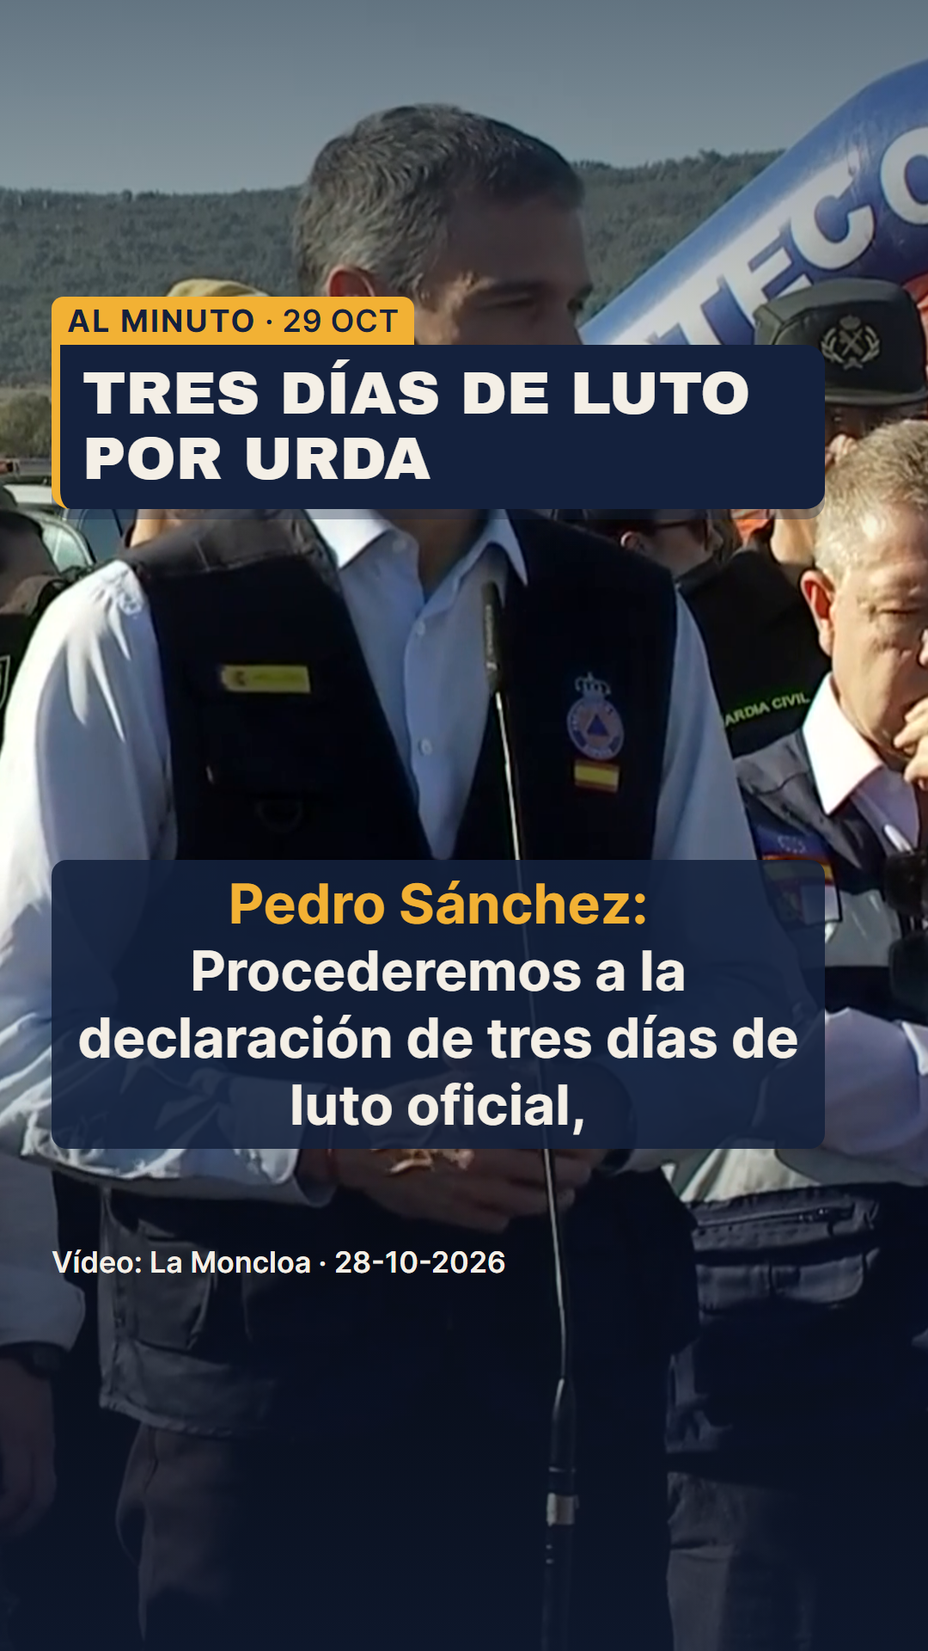
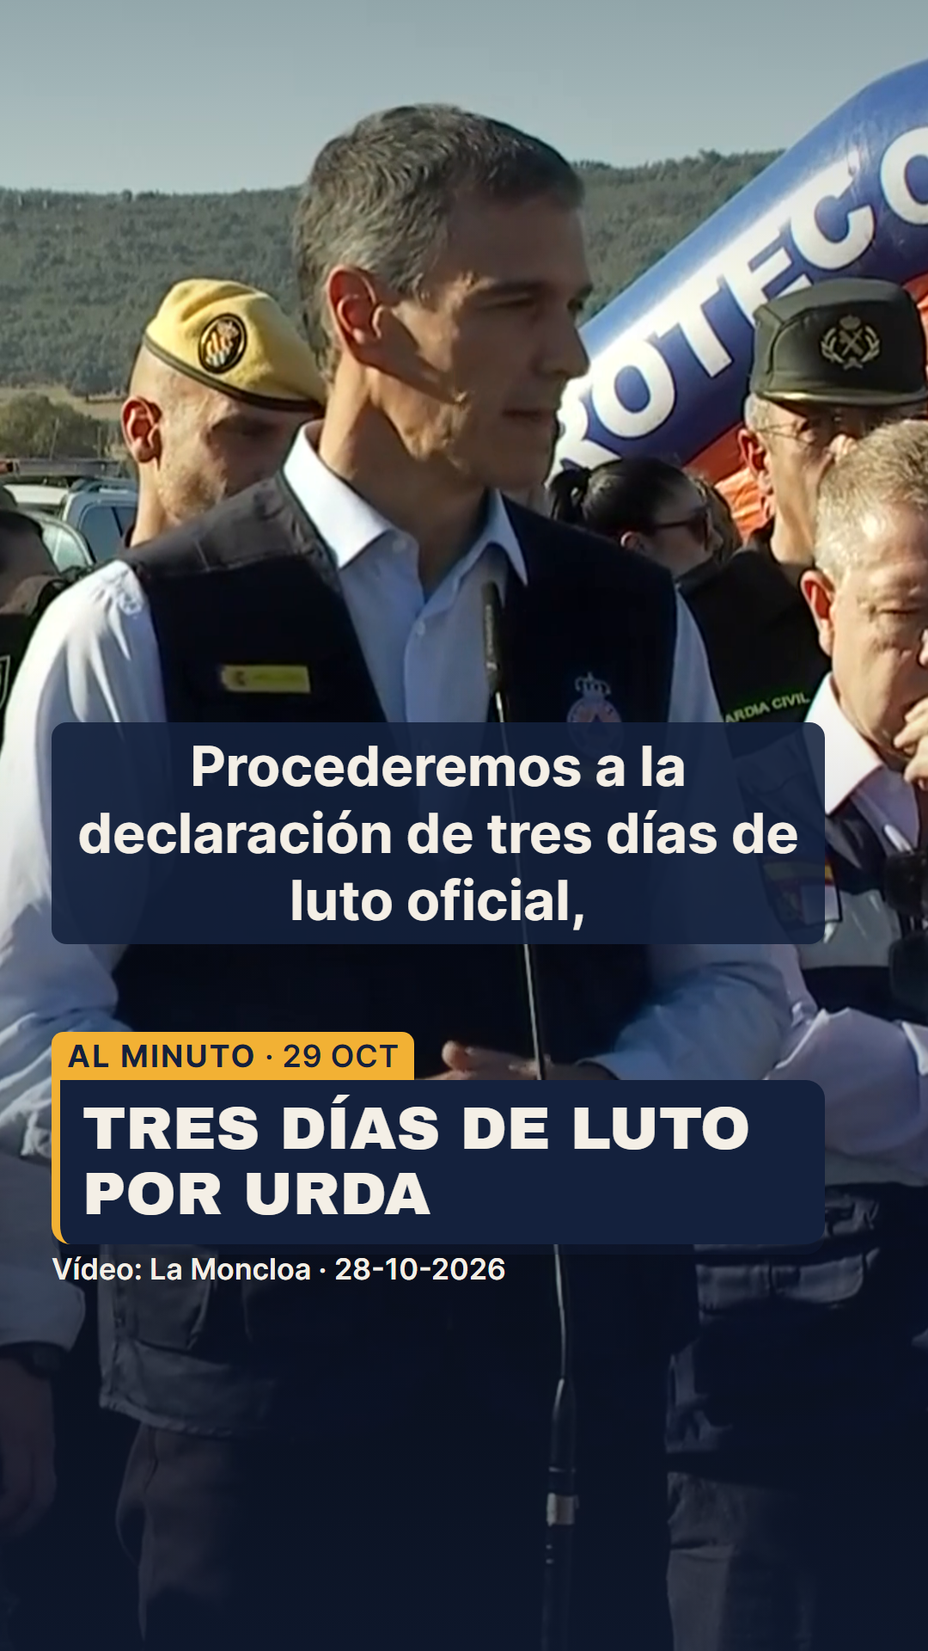
Al minuto: caja de titular abajo, citas sin nombre y sin rótulo del dato; 029 v3 aprobada

diff --git a/videos/remotion/src/componentes/AlMinuto.tsx b/videos/remotion/src/componentes/AlMinuto.tsx
@@ -4,6 +4,9 @@ import {C, F, SEGURA, SUBS} from '../tema';
 import {useEntrada, useSalida} from './util';
 import {Notas} from './Notas';
 
+/** Desplazamiento de los subtítulos (citas y voz) en Al minuto: suben sobre el pecho para dejar abajo la caja de titular. Úsalo también como subDy en escenas.json. */
+export const SUBS_DY_AM = -310;
+
 /**
  * Formato AL MINUTO (2026-10-28; reglas en estilo/guia-estilo.md → "Formato Al minuto").
  * El clip real a pantalla completa manda; encima, la caja de titular fija, los subtítulos literales del clip y "El dato que falta".
@@ -15,8 +18,8 @@ import {Notas} from './Notas';
  * Velo tinta degradado arriba y abajo para leer la caja y los subtítulos. `credito` ("Vídeo: La Moncloa") siempre visible abajo. */
 export const Clip: React.FC<{
   src: string; desde?: number; volumen?: number; bajarEn?: [number, number][]; volumenBajo?: number; foco?: string;
-  zoom?: [number, number]; dur?: number; en?: number; credito?: string; velo?: number; fundidoFin?: number;
-}> = ({src, desde = 0, volumen = 1, bajarEn = [], volumenBajo = 0.15, foco = '50% 50%', zoom = [1, 1], dur = 10, en = 0, credito, velo = 0.55, fundidoFin}) => {
+  zoom?: [number, number]; dur?: number; en?: number; credito?: string; creditoY?: number; velo?: number; fundidoFin?: number;
+}> = ({src, desde = 0, volumen = 1, bajarEn = [], volumenBajo = 0.15, foco = '50% 50%', zoom = [1, 1], dur = 10, en = 0, credito, creditoY = 1455, velo = 0.55, fundidoFin}) => {
   const frame = useCurrentFrame();
   const {fps} = useVideoConfig();
   const k = interpolate(frame, [en * fps, (en + dur) * fps], [0, 1], {extrapolateLeft: 'clamp', extrapolateRight: 'clamp'});
@@ -37,15 +40,15 @@ export const Clip: React.FC<{
       <div style={{position: 'absolute', inset: 0, overflow: 'hidden', background: C.tinta}}>
         <OffthreadVideo src={staticFile(`clips/${src}`)} startFrom={Math.round(desde * fps)} volume={vol}
           style={{width: '100%', height: '100%', objectFit: 'cover', objectPosition: foco, transform: `scale(${esc})`, transformOrigin: foco}} />
-        <div style={{position: 'absolute', inset: 0, background: `linear-gradient(180deg, rgba(20,33,61,${velo}) 0%, rgba(20,33,61,0) 34%, rgba(20,33,61,0) 52%, rgba(20,33,61,${velo + 0.15}) 100%)`}} />
+        <div style={{position: 'absolute', inset: 0, background: `linear-gradient(180deg, rgba(20,33,61,${velo * 0.5}) 0%, rgba(20,33,61,0) 20%, rgba(20,33,61,0) 40%, rgba(20,33,61,${velo + 0.15}) 100%)`}} />
       </div>
-      {credito ? <Notas lineas={[credito]} sobre="oscuro" tamano={34} /> : null}
+      {credito ? <Notas lineas={[credito]} sobre="oscuro" tamano={34} y={creditoY} /> : null}
     </>
   );
 };
 
-/** Caja de titular fija (todo el vídeo): etiqueta mostaza "AL MINUTO · fecha" y titular (máx. 8 palabras) en crema sobre tinta. */
-export const TitularAM: React.FC<{texto: string; fecha?: string; etiqueta?: string; y?: number; tamano?: number; en?: number}> = ({texto, fecha, etiqueta = 'AL MINUTO', y = 345, tamano = 70, en = 0}) => {
+/** Caja de titular fija (todo el vídeo), ABAJO para no tapar la cara (decisión 2026-10-29): etiqueta mostaza "AL MINUTO · fecha" y titular (máx. 8 palabras) en crema sobre tinta. */
+export const TitularAM: React.FC<{texto: string; fecha?: string; etiqueta?: string; y?: number; tamano?: number; en?: number}> = ({texto, fecha, etiqueta = 'AL MINUTO', y = 1200, tamano = 70, en = 0}) => {
   // Regla de la plantilla: caja 100 % opaca desde el fotograma 1, sin fundido ni movimiento de entrada
   return (
     <div style={{position: 'absolute', left: SEGURA.izq, top: y, width: SEGURA.ancho}}>
@@ -57,8 +60,8 @@ export const TitularAM: React.FC<{texto: string; fecha?: string; etiqueta?: stri
   );
 };
 
-/** Subtítulos literales del clip (lo que se oye), con quién habla en mostaza. Pastilla tinta en la banda de subtítulos. */
-export const Citas: React.FC<{lineas: {inicio: number; fin: number; texto: string; quien?: string}[]; y?: number; tamano?: number}> = ({lineas, y = SUBS.y, tamano = 64}) => {
+/** Subtítulos literales del clip (lo que se oye), SIN el nombre de quien habla (decisión 2026-10-29). Encima de la caja de titular. Pastilla tinta en la banda de subtítulos. */
+export const Citas: React.FC<{lineas: {inicio: number; fin: number; texto: string}[]; y?: number; tamano?: number}> = ({lineas, y = SUBS.y + SUBS_DY_AM, tamano = 64}) => {
   const frame = useCurrentFrame();
   const {fps} = useVideoConfig();
   const t = frame / fps;
@@ -67,7 +70,7 @@ export const Citas: React.FC<{lineas: {inicio: number; fin: number; texto: strin
   return (
     <div style={{position: 'absolute', left: SEGURA.izq, width: SEGURA.ancho, top: y, display: 'flex', justifyContent: 'center'}}>
       <div style={{fontFamily: F.texto, fontWeight: 700, fontSize: tamano, lineHeight: 1.22, color: C.crema, background: 'rgba(20,33,61,0.88)', padding: '12px 26px', borderRadius: 18, textAlign: 'center', maxWidth: SEGURA.ancho}}>
-        {l.quien ? <span style={{color: C.mostaza}}>{l.quien}: </span> : null}{l.texto}
+        {l.texto}
       </div>
     </div>
   );

diff --git a/estado/pipeline.md b/estado/pipeline.md
@@ -32,7 +32,7 @@ Lo mantiene el coordinador. Una fila por pieza.
 | 026 | choque-trenes-urda | 🔴 Actualidad | Estándar corto (≈ 73 s) | publicado | 1 | 0 | 2026-10-28 13:28 TikTok · 13:31 IG (PUBLICADO) | 2026-10-28: la persona usuaria pide "un vídeo de la última hora" para subir ya → buscador-temas buscando la noticia · La persona usuaria pide que se le pida el OK en cuanto esté lista para publicar al momento, sin el margen de 2 h · Buscador: choque por alcance AVE-Iryo en Urda (Toledo) el 28-10; cifra de muertos sin cerrar (10 según la portavoz de CLM, otros dan 39–46: posible mezcla con Adamuz) → guion encargado: solo cifra oficial atribuida y con hora, sin causa ni culpas → v1 (202 pal., ≈ 73 s; "al menos 30" según EFE/Junta CLM a las 10:25; los 46 de Cuatro sin fuente oficial localizada) → a revisor-guion (vía rápida, cifra oficial) → v1 CAMBIOS (literales: al menos 30, Junta CLM 10:30, cifras más altas sin confirmar (46 no oficial: Iryo/Protección Civil según The Objective; la portavoz no lo confirma a las 11:14); fuera juzgado y ASFA/ERTMS; CIAF regla general) → guionista aplicándolos (v2) → v2 verificada por el coordinador (grep de literales) → aprobado → vídeo v1 encargado → render v1 (73,2 s, Urda.tsx, cifra editable en _generar-escenas.mjs; subida 7,6 MB) → a revisor-video → v1 APROBADO 9/10. Cifra recomprobada (30, Page: 24 AVE + 6 Iryo). Ficha en publicado/026. Pendiente del OK → guion v3 (puentes, 230 pal.) → sin clips de X válidos → render v2 (87,5 s, 6 fotos Commons, marcador 1-2-3) → v2 APROBADO 9/10. Cifra recomprobada a las 13:02 (30, Page). Pendiente del OK · OK de la persona usuaria ("súbelo") → publicador, publicar ya → PUBLICADO (TikTok 7701694536233389334) |
 | 027 | trenes-oscar-puente | 🔴 Actualidad | Estándar (≤ 88 s) | programado | 2 | 1 | 2026-10-28 21:00 (Meta Business Suite y TikTok Studio, OK de la persona usuaria) | 2026-10-28: petición de la persona usuaria (repaso de los trenes con Puente de ministro, desde el 21-11-2023) → guion encargado. Accidentes: cifras oficiales, sin culpas no establecidas · La persona usuaria pide que se le pida el OK en cuanto esté lista para publicar al momento, sin el margen de 2 h · Solo lo negativo (persona usuaria, 28-10); Urda solo en una línea con hechos confirmados → v1 (86 s, 236 pal.; Adamuz, Gelida, Rodalies, robo de cable, huelga de febrero; Urda en una línea; 6 VERIFICAR) → a revisor-guion (vigilar gancho con los muertos de Adamuz) · La persona usuaria la quiere HOY (28-10), pese al choque de Urda; pedir OK en cuanto esté aprobada → v1 CAMBIOS (gancho sin muertos junto al ministro; desenlaces: detenidos del cable, huelga desconvocada; Rodalies 2 días; cierre nuevo) → guionista v2 ≤ 88 s → v2 (241 pal., 87,6 s) verificada por el coordinador (grep) → aprobado → vídeo v1 encargado → render v1 (85,7 s, Tren.tsx; subida 6,0 MB) → a revisor-video → v1 APROBADO 9/10 (opcional: "SIN CERRAR" en lugar de "?"). Ficha en publicado/027. Pendiente del OK · 2026-10-28: la persona usuaria pide imágenes reales y más dinamismo con hilo de retención → guionista v3 → luego vídeo v2 → guion v3 (misma voz; contador HECHO 1–6) → render v2 (85,6 s, 9 fotos Commons, Moncloa con fecha) → v2 APROBADO 9/10. Pendiente del OK · OK de la persona usuaria ("027 a las 21:00") → publicador, 28-10 21:00 → PROGRAMADO y verificado. Miniatura de IG sin confirmar |
 | 028 | dos-cifras-de-paro | 📊 Datos y mitos | Flash (≈ 32 s) | guion-revision | 1 | 0 | sin hueco (era 2026-10-30 19:00) | Propuesta 3 de 2026-10-27 (EPA 3T: 2.591.200 frente a 2.379.505 registrados). 2026-10-29 (producción nocturna en la nube): guion encargado → v1 (109 pal.) → a revisor-guion → v1 CAMBIOS (texto de voz literal de 88 pal. en revisiones/guiones/028-dos-cifras-de-paro-v1.md; corregir "Idea en una frase" y tiempos a 165 pal/min). BLOQUEADA por verificación: el proxy de la nube bloquea ine.es, lamoncloa.gob.es, sepe.es, revista.seg-social.es, boe.es y commons.wikimedia.org; no se pudo leer literalmente la nota EPA3T26 (2.591.200; +95.900; −21.900) ni la definición de parado registrado. Siguiente paso: permitir esos dominios (o comprobar en Chrome), aplicar el literal y hacer una vuelta 2 solo de datos |
-| 029 | luto-oficial | 🔴 Actualidad · Al minuto (piloto) | Al minuto (28 s) | aprobado (piloto, sin programar) | 2 | 2 | — (no va a la cola salvo OK de la persona usuaria; luto vigente hasta 2026-10-31 24:00) | Declaración de Sánchez en Urda 2026-10-28 (clip La Moncloa) + RD 949/2026. Guion v2 APROBADO, vídeo v2 APROBADO 9/10. Render videos/renders/029-luto-oficial-v2.mp4 (clip y fuente .mp4 solo en local, no en git). Renumerada de 028 por choque con la producción nocturna. |
+| 029 | luto-oficial | 🔴 Actualidad · Al minuto (piloto) | Al minuto (28 s) | aprobado (piloto, sin programar) | 2 | 2 | — (no va a la cola salvo OK de la persona usuaria; luto vigente hasta 2026-10-31 24:00) | Declaración de Sánchez en Urda 2026-10-28 (clip La Moncloa) + RD 949/2026. Guion v2 APROBADO; vídeo v3 APROBADO 9/10 (cambios de la persona usuaria 29-10: sin rótulo de dato, caja abajo, citas sin nombre). Render videos/renders/029-luto-oficial-v3.mp4 (clip y fuente .mp4 solo en local, no en git). Renumerada de 028 por choque con la producción nocturna. |
 
 **Serie "8 años en cifras" (pedida el 2026-10-28):** cifras negativas del Gobierno de Sánchez desde 2018, de fuente oficial y con comparación honesta. Propuesta en temas/propuestas/2026-10-28-serie-8-anos.md (buscador). Elegir episodios con la persona usuaria.
 

diff --git a/estilo/guia-estilo.md b/estilo/guia-estilo.md
@@ -60,9 +60,9 @@ Elegida **a propósito lejos de los colores de los partidos españoles**: la cue
 
 ## Formato Al minuto (2026-10-28, aprobado por la persona usuaria)
 Actualidad del mismo día en **15–40 s** con la **imagen real del hecho** como protagonista. Inspirado en cuentas de clips de noticias, pero con dos diferencias que no se negocian: **sin clips de televisión** y **sin tono activista** (la línea editorial elige el tema y el dato, nunca adjetiva).
-- **Pantalla:** el clip a pantalla completa (velo tinta suave arriba y abajo para leer) · **caja de titular fija** arriba (etiqueta mostaza "AL MINUTO" + titular de máx. 8 palabras en crema sobre tinta, presente todo el vídeo) · **rótulo "El dato que falta"** en el último tercio: una cifra o hecho verificado que da contexto (con su fuente en 36 px) · crédito del clip siempre visible abajo ("Vídeo: La Moncloa", "Vídeo: @usuario").
-- **Audio:** el sonido original del clip. Si hablan, **subtítulos literales** de lo que se dice, atribuidos ("Sánchez:"), sin recortar el sentido de la frase. Voz de Rafalupi **como mucho una frase** (normalmente para presentar el dato que falta); mientras suena, el clip baja a ~15 %.
-- **Estructura:** 0–2 s titular + lo más fuerte del clip (gancho visual, nunca fuera de contexto) · 2–25 s el clip (uno o dos cortes) · últimos 8–10 s el dato que falta + cierre corto ("Síguenos para estar informado").
+- **Pantalla:** el clip a pantalla completa (velo tinta suave arriba y abajo para leer) · **caja de titular fija ABAJO** (y≈1200, para no tapar la cara; etiqueta mostaza "AL MINUTO" + titular de máx. 8 palabras en crema sobre tinta, presente todo el vídeo) · subtítulos encima de la caja, a la altura del pecho · crédito del clip siempre visible bajo la caja ("Vídeo: La Moncloa", "Vídeo: @usuario"). **Sin rótulo "El dato que falta"** (decisión de la persona usuaria del 2026-10-29: "no queda bien"); el contexto va en la voz y en el post.
+- **Audio:** el sonido original del clip. Si hablan, **subtítulos literales** de lo que se dice, **sin el nombre de quien habla** (solo el texto; quién es lo dicen el titular y el post; 2026-10-29), sin recortar el sentido de la frase. Voz de Rafalupi **como mucho una frase** (el dato de contexto, con sus subtítulos normales); mientras suena, el clip baja a ~15 %.
+- **Estructura:** 0–2 s titular + lo más fuerte del clip (gancho visual, nunca fuera de contexto) · 2–25 s el clip (uno o dos cortes) · últimos 5–8 s la frase de contexto en voz + cierre corto ("Síguenos para estar informado").
 - **Clips permitidos (por orden de preferencia):**
   1. **Institucionales** con reutilización permitida citando la fuente: La Moncloa (galería de vídeos), Congreso (Canal Parlamento / archivo audiovisual), Senado, Parlamento Europeo (Multimedia Centre), Comisión Europea (Audiovisual Service), Casa Real, Gobiernos autonómicos y ayuntamientos con aviso legal que lo permita. El guionista comprueba el aviso legal de cada fuente y lo anota.
   2. **Grabados por particulares en redes** (excepción de la persona usuaria del 2026-10-25): citando la cuenta (@) en pantalla y **pixelando las caras** de quien no sea cargo público. Citar no equivale a permiso: riesgo de retirada asumido por la persona usuaria.

diff --git a/.claude/agents/generador-video.md b/.claude/agents/generador-video.md
@@ -25,7 +25,7 @@ No leas informes ni carpetas de otras piezas salvo para copiar un patrón concre
 3. Renderiza.
 4. Autocomprobación antes de entregar: formato y duración (±5 s del objetivo), los 6 fotogramas de control y **la salida de `comprobar.mjs` en "COMPROBAR: OK"**. Cada aviso que quede, corrígelo o explícale al coordinador por qué no es un fallo (p. ej. un sello que rebasa 5 px solo al entrar); mira en un fotograma los de la franja de subtítulos. Portada con el titular legible en el recorte central 1080×1350.
 
-**Formato Al minuto:** `"plantilla": "alminuto"` en escenas.json y los componentes `clip` (vídeo a pantalla completa desde `clips/` de la pieza, con `desde`, `volumen` y `bajarEn` para la voz), `titularAM` (caja fija) , `citas` (subtítulos literales del clip) y `datoFalta`. Prepara el clip con `node videos/scripts/clip.mjs` (recorte de tramos, pixelado de caras con cajas, 1080×1920). Esqueleto: `videos/plantillas/alminuto.escenas.json`.
+**Formato Al minuto:** `"plantilla": "alminuto"` en escenas.json y los componentes `clip` (vídeo a pantalla completa desde `clips/` de la pieza, con `desde`, `volumen` y `bajarEn` para la voz), `titularAM` (caja fija) , `citas` (subtítulos literales del clip, sin nombre de quien habla). La caja va abajo y los subtítulos encima (`"subDy": -310` en escenas.json para los de la voz); no se usa `datoFalta` (2026-10-29). Prepara el clip con `node videos/scripts/clip.mjs` (recorte de tramos, pixelado de caras con cajas, 1080×1920). Esqueleto: `videos/plantillas/alminuto.escenas.json`.
 
 ## Reglas de estilo que no se negocian
 - **Zonas seguras** de Instagram: sin texto importante en los 250 px de arriba, en los 420 px de abajo ni en los 120 px del lateral derecho.

diff --git a/agentes/generador-video.md b/agentes/generador-video.md
@@ -25,7 +25,7 @@ No leas informes ni carpetas de otras piezas salvo para copiar un patrón concre
 3. Renderiza.
 4. Autocomprobación antes de entregar: formato y duración (±5 s del objetivo), los 6 fotogramas de control y **la salida de `comprobar.mjs` en "COMPROBAR: OK"**. Cada aviso que quede, corrígelo o explícale al coordinador por qué no es un fallo (p. ej. un sello que rebasa 5 px solo al entrar); mira en un fotograma los de la franja de subtítulos. Portada con el titular legible en el recorte central 1080×1350.
 
-**Formato Al minuto:** `"plantilla": "alminuto"` en escenas.json y los componentes `clip` (vídeo a pantalla completa desde `clips/` de la pieza, con `desde`, `volumen` y `bajarEn` para la voz), `titularAM` (caja fija) , `citas` (subtítulos literales del clip) y `datoFalta`. Prepara el clip con `node videos/scripts/clip.mjs` (recorte de tramos, pixelado de caras con cajas, 1080×1920). Esqueleto: `videos/plantillas/alminuto.escenas.json`.
+**Formato Al minuto:** `"plantilla": "alminuto"` en escenas.json y los componentes `clip` (vídeo a pantalla completa desde `clips/` de la pieza, con `desde`, `volumen` y `bajarEn` para la voz), `titularAM` (caja fija) , `citas` (subtítulos literales del clip, sin nombre de quien habla). La caja va abajo y los subtítulos encima (`"subDy": -310` en escenas.json para los de la voz); no se usa `datoFalta` (2026-10-29). Prepara el clip con `node videos/scripts/clip.mjs` (recorte de tramos, pixelado de caras con cajas, 1080×1920). Esqueleto: `videos/plantillas/alminuto.escenas.json`.
 
 ## Reglas de estilo que no se negocian
 - **Zonas seguras** de Instagram: sin texto importante en los 250 px de arriba, en los 420 px de abajo ni en los 120 px del lateral derecho.

diff --git a/guiones/_plantilla-al-minuto.md b/guiones/_plantilla-al-minuto.md
@@ -4,7 +4,7 @@
 |---|---|
 | Pilar | 🔴 Actualidad |
 | Formato | Al minuto (15–40 s), plantilla `alminuto`. Reglas: `estilo/guia-estilo.md` → "Formato Al minuto" |
-| Duración objetivo | NN s (clip NN s + dato que falta NN s) |
+| Duración objetivo | NN s (clip NN s + frase de contexto NN s) |
 | Vigencia | Publicar el AAAA-MM-DD antes de las HH:MM (si pasa más tiempo, revisar que el hecho no haya cambiado) |
 | Portada | Titular de la caja (máx. 6 palabras) sobre el fotograma del segundo N del clip |
 | Versión | v1 |
@@ -29,14 +29,14 @@ TEXTO DEL TITULAR
 |---|---|---|---|---|
 | 1 | 0–N s | Corte 1 | Original | Caja de titular |
 | 2 | N–N s | Corte 2 | Original | Subtítulos literales |
-| 3 | N–N s | Corte 2 (sigue, más bajo) | Voz: frase del dato | Rótulo "El dato que falta" |
+| 3 | N–N s | Corte 2 (sigue, más bajo) | Voz: frase del dato | Subtítulos de la voz (sin rótulo de dato) |
 | 4 | últimos 2–3 s | Cierre de marca | — | "Síguenos para estar informado" |
 
 ## Subtítulos literales del clip
 (Lo que se oye, palabra por palabra, con quién lo dice y el tiempo dentro del vídeo final. Cotejado con: transcripción oficial / escucha.)
 - 0,0–3,2 s · Nombre: "Frase literal…"
 
-## El dato que falta
+## El dato que falta (va en la voz y en el post; sin rótulo en pantalla desde 2026-10-29)
 - **Rótulo:** CIFRA O HECHO (máx. 7 palabras)
 - **Detalle (1 línea):** …
 - **Fuente:** Organismo, documento y fecha (URL). Rótulo de 36 px: "Fuente: …"

diff --git a/PLANIFICADOR.md b/PLANIFICADOR.md
@@ -47,7 +47,7 @@ Regla de variedad: en cada bloque de 10 vídeos, ningún líder protagoniza más
 | **Reel flash** | 20–35 s | Curiosidad rápida o "dato del día" |
 | **Serie** (2–4 partes) | 60–90 s c/u | Temas grandes: "La Constitución en 4 vídeos" |
 | **Carrusel** (opcional) | 6–10 diapositivas | Resumen de la semana, reutilizando gráficos del vídeo |
-| **Al minuto** (desde el 2026-10-28) | 15–40 s | Actualidad del mismo día con **imagen real del hecho**: el clip manda, con titular fijo de marca y el rótulo "El dato que falta". Plantilla `alminuto`; guion con `guiones/_plantilla-al-minuto.md`; reglas en `estilo/guia-estilo.md` → "Formato Al minuto" |
+| **Al minuto** (desde el 2026-10-28) | 15–40 s | Actualidad del mismo día con **imagen real del hecho**: el clip manda, con titular fijo de marca abajo y una frase de contexto en voz. Plantilla `alminuto`; guion con `guiones/_plantilla-al-minuto.md`; reglas en `estilo/guia-estilo.md` → "Formato Al minuto" |
 
 **Dos líneas de producto (decisión del 2026-10-28, tras el análisis de rendimiento):**
 - **"¿Por qué…?"** (el núcleo, ~70 %): explicativos de instituciones, elecciones y dinero público con un ejemplo y una duda cotidiana; estándar o flash. Es lo que trae guardados y seguidores (002, 003, 016).

diff --git a/.claude/agents/revisor-video.md b/.claude/agents/revisor-video.md
@@ -34,7 +34,7 @@ Agrupa en un solo Bash los comandos sin imágenes de los pasos 1–3 (cada turno
 
 **Test de formato Reel/TikTok:** aplica los 10 criterios de `estilo/test-formato-reel.md` sobre el vídeo real.
 
-**Si el formato es Al minuto:** la caja de titular se lee en todo el vídeo, el crédito del clip está visible, las caras de particulares están pixeladas, los subtítulos del clip coinciden con lo que se oye y el rótulo "El dato que falta" lleva su fuente. Duración 15–40 s.
+**Si el formato es Al minuto:** la caja de titular (abajo, sin tapar caras) se lee en todo el vídeo, los subtítulos no llevan el nombre de quien habla, no hay rótulo "El dato que falta", el crédito del clip está visible, las caras de particulares están pixeladas, los subtítulos del clip coinciden con lo que se oye. Duración 15–40 s.
 
 ## Veredicto
 - `APROBADO`: sin bloqueantes y test ≥ 9.

diff --git a/agentes/revisor-video.md b/agentes/revisor-video.md
@@ -34,7 +34,7 @@ Agrupa en un solo Bash los comandos sin imágenes de los pasos 1–3 (cada turno
 
 **Test de formato Reel/TikTok:** aplica los 10 criterios de `estilo/test-formato-reel.md` sobre el vídeo real.
 
-**Si el formato es Al minuto:** la caja de titular se lee en todo el vídeo, el crédito del clip está visible, las caras de particulares están pixeladas, los subtítulos del clip coinciden con lo que se oye y el rótulo "El dato que falta" lleva su fuente. Duración 15–40 s.
+**Si el formato es Al minuto:** la caja de titular (abajo, sin tapar caras) se lee en todo el vídeo, los subtítulos no llevan el nombre de quien habla, no hay rótulo "El dato que falta", el crédito del clip está visible, las caras de particulares están pixeladas, los subtítulos del clip coinciden con lo que se oye. Duración 15–40 s.
 
 ## Veredicto
 - `APROBADO`: sin bloqueantes y test ≥ 9.

diff --git a/guiones/aprobados/029-luto-oficial.md b/guiones/aprobados/029-luto-oficial.md
@@ -91,3 +91,8 @@ Imágenes: ninguna foto externa; todo el fondo es el clip. Rótulos y cierre, ve
 - Montaje con tiempos nuevos: clip 0–23,5 s, voz en 17,8 s, cierre mostaza 23,5–26,5 s; el clip no llega a "agradecer a los medios".
 - Subtítulos 0–4,3 / 4,3–8,5 / 8,5–11,9 / 12,0–17,7; rótulo del dato acortado; Adamuz solo en el post.
 - Duración recalculada a 165 pal/min; [VERIFICAR] 1 y 2 marcados como resueltos.
+
+## Cambios de la persona usuaria (2026-10-29, tras ver el vídeo v2)
+- Fuera el rótulo "El dato que falta" (la frase de la voz se queda, con sus subtítulos normales).
+- Caja de titular abajo para no tapar la cara; subtítulos encima, a la altura del pecho.
+- Subtítulos del clip sin "Pedro Sánchez:", solo el texto.

diff --git a/revisiones/videos/029-luto-oficial-v3.md b/revisiones/videos/029-luto-oficial-v3.md
@@ -1,0 +1,6 @@
+# Revisión de vídeo · 029-luto-oficial · vuelta 3
+**Veredicto:** APROBADO  →  sigue a publicación
+**Técnica:** 1080×1920 · 30 fps · H.264+AAC · 28,2 s · -14,4 LUFS · pico -1,4 dBTP
+**Test de formato:** 9/10 (criterio 9 sin pregunta, decisión del guion por ser suceso con víctimas)
+
+Verificado en 8 fotogramas (0–27 s): cara libre en todo el clip, subtítulos a la altura del pecho sin "Pedro Sánchez:", caja de titular abajo, crédito bajo la caja y por encima de y=1490, sin solapes; sin rótulo "El dato que falta"; subtítulos de voz ("Ya está en el BOE…") presentes; cierre con "Síguenos". BORDE de comprobar.mjs: falso positivo (clip a pantalla completa).
